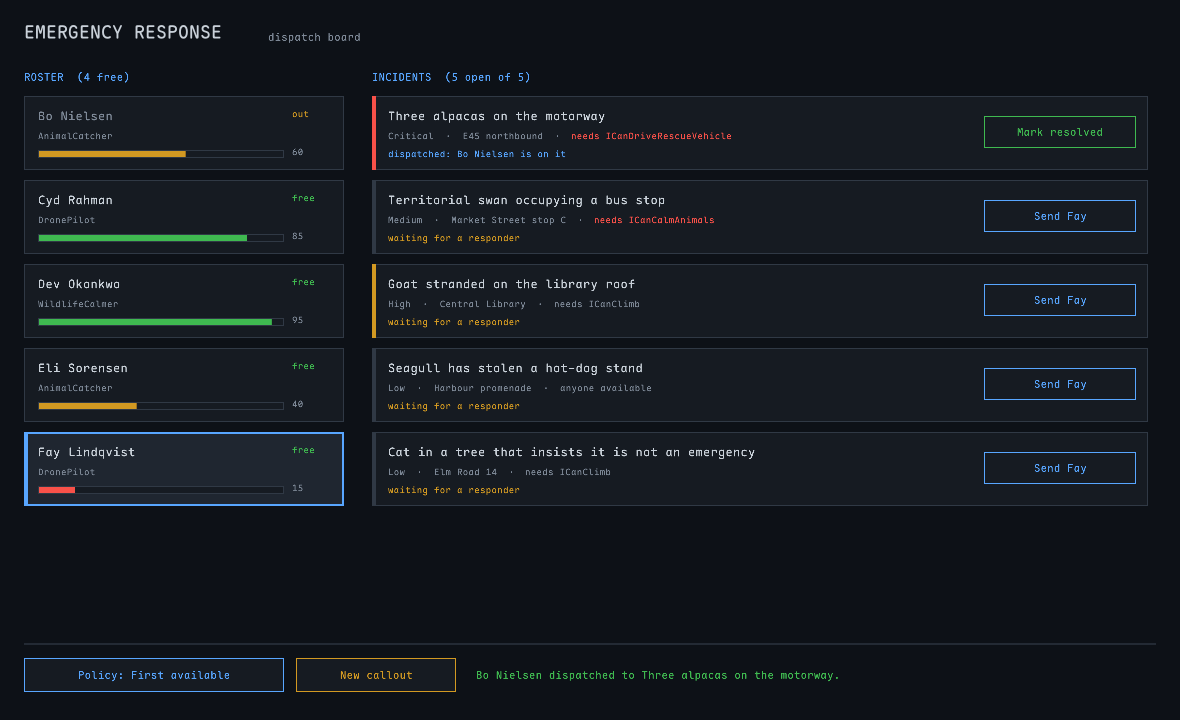
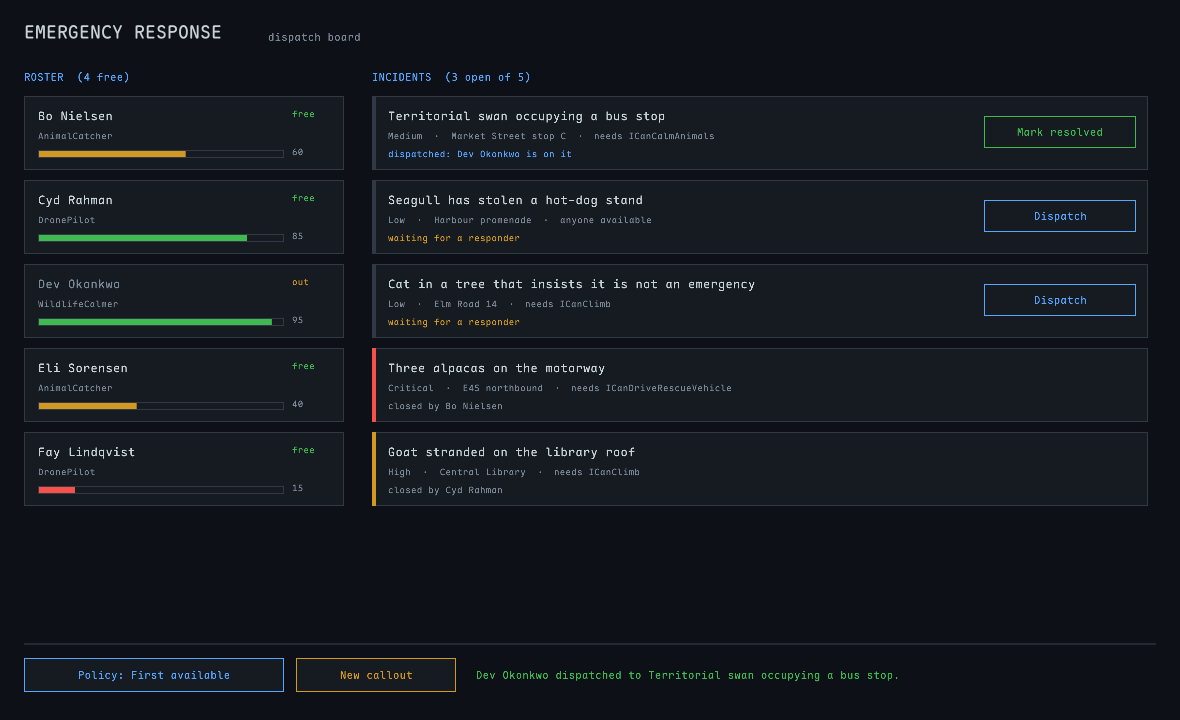
Added a raylib dispatch board as a second UI

diff --git a/src/EmergencyResponse.RaylibUi/DispatchBoard.cs b/src/EmergencyResponse.RaylibUi/DispatchBoard.cs
@@ -28,6 +28,7 @@ internal sealed class DispatchBoard
     private int calloutCount;
     private Responder? selected;
     private float scroll;
+    private bool followNewest;
 
     /// <summary>Creates the board over a command centre.</summary>
     /// <param name="centre">The centre to drive.</param>
@@ -97,11 +98,22 @@ internal sealed class DispatchBoard
     /// <summary>The right column: the board, with what you can do to each incident.</summary>
     private void DrawIncidents()
     {
-        IReadOnlyList<Incident> board = centre.Incidents;
+        // Closed callouts sink to the bottom. OrderBy is stable, so within each
+        // group the board keeps the order things were called in.
+        List<Incident> board = [.. centre.Incidents
+            .OrderBy(i => i.Status == IncidentStatus.Resolved ? 1 : 0)];
+
         Rectangle viewport = new(372, 88, 784, Height - 176);
 
         int open = board.Count(i => i.Status != IncidentStatus.Resolved);
         Ui.Text($"INCIDENTS  ({open} open of {board.Count})", 372, 70, 14, Theme.Accent);
+
+        if (followNewest)
+        {
+            // Show the newest open one, which is the last before the closed block.
+            scroll = Math.Min(0, viewport.Height - (open * 84) - 16);
+            followNewest = false;
+        }
 
         // The list outgrows the window as soon as you call in a few, so it
         // scrolls rather than silently hiding the newest ones.
@@ -223,7 +235,7 @@ internal sealed class DispatchBoard
         {
             Incident called = SeedData.NextCallout(calloutCount++);
             centre.ReportIncident(called);
-            scroll = float.MinValue;   // clamped next frame: jump to the newest
+            followNewest = true;
             Say($"Called in: {called.Description}", Theme.Warn);
         }
 
